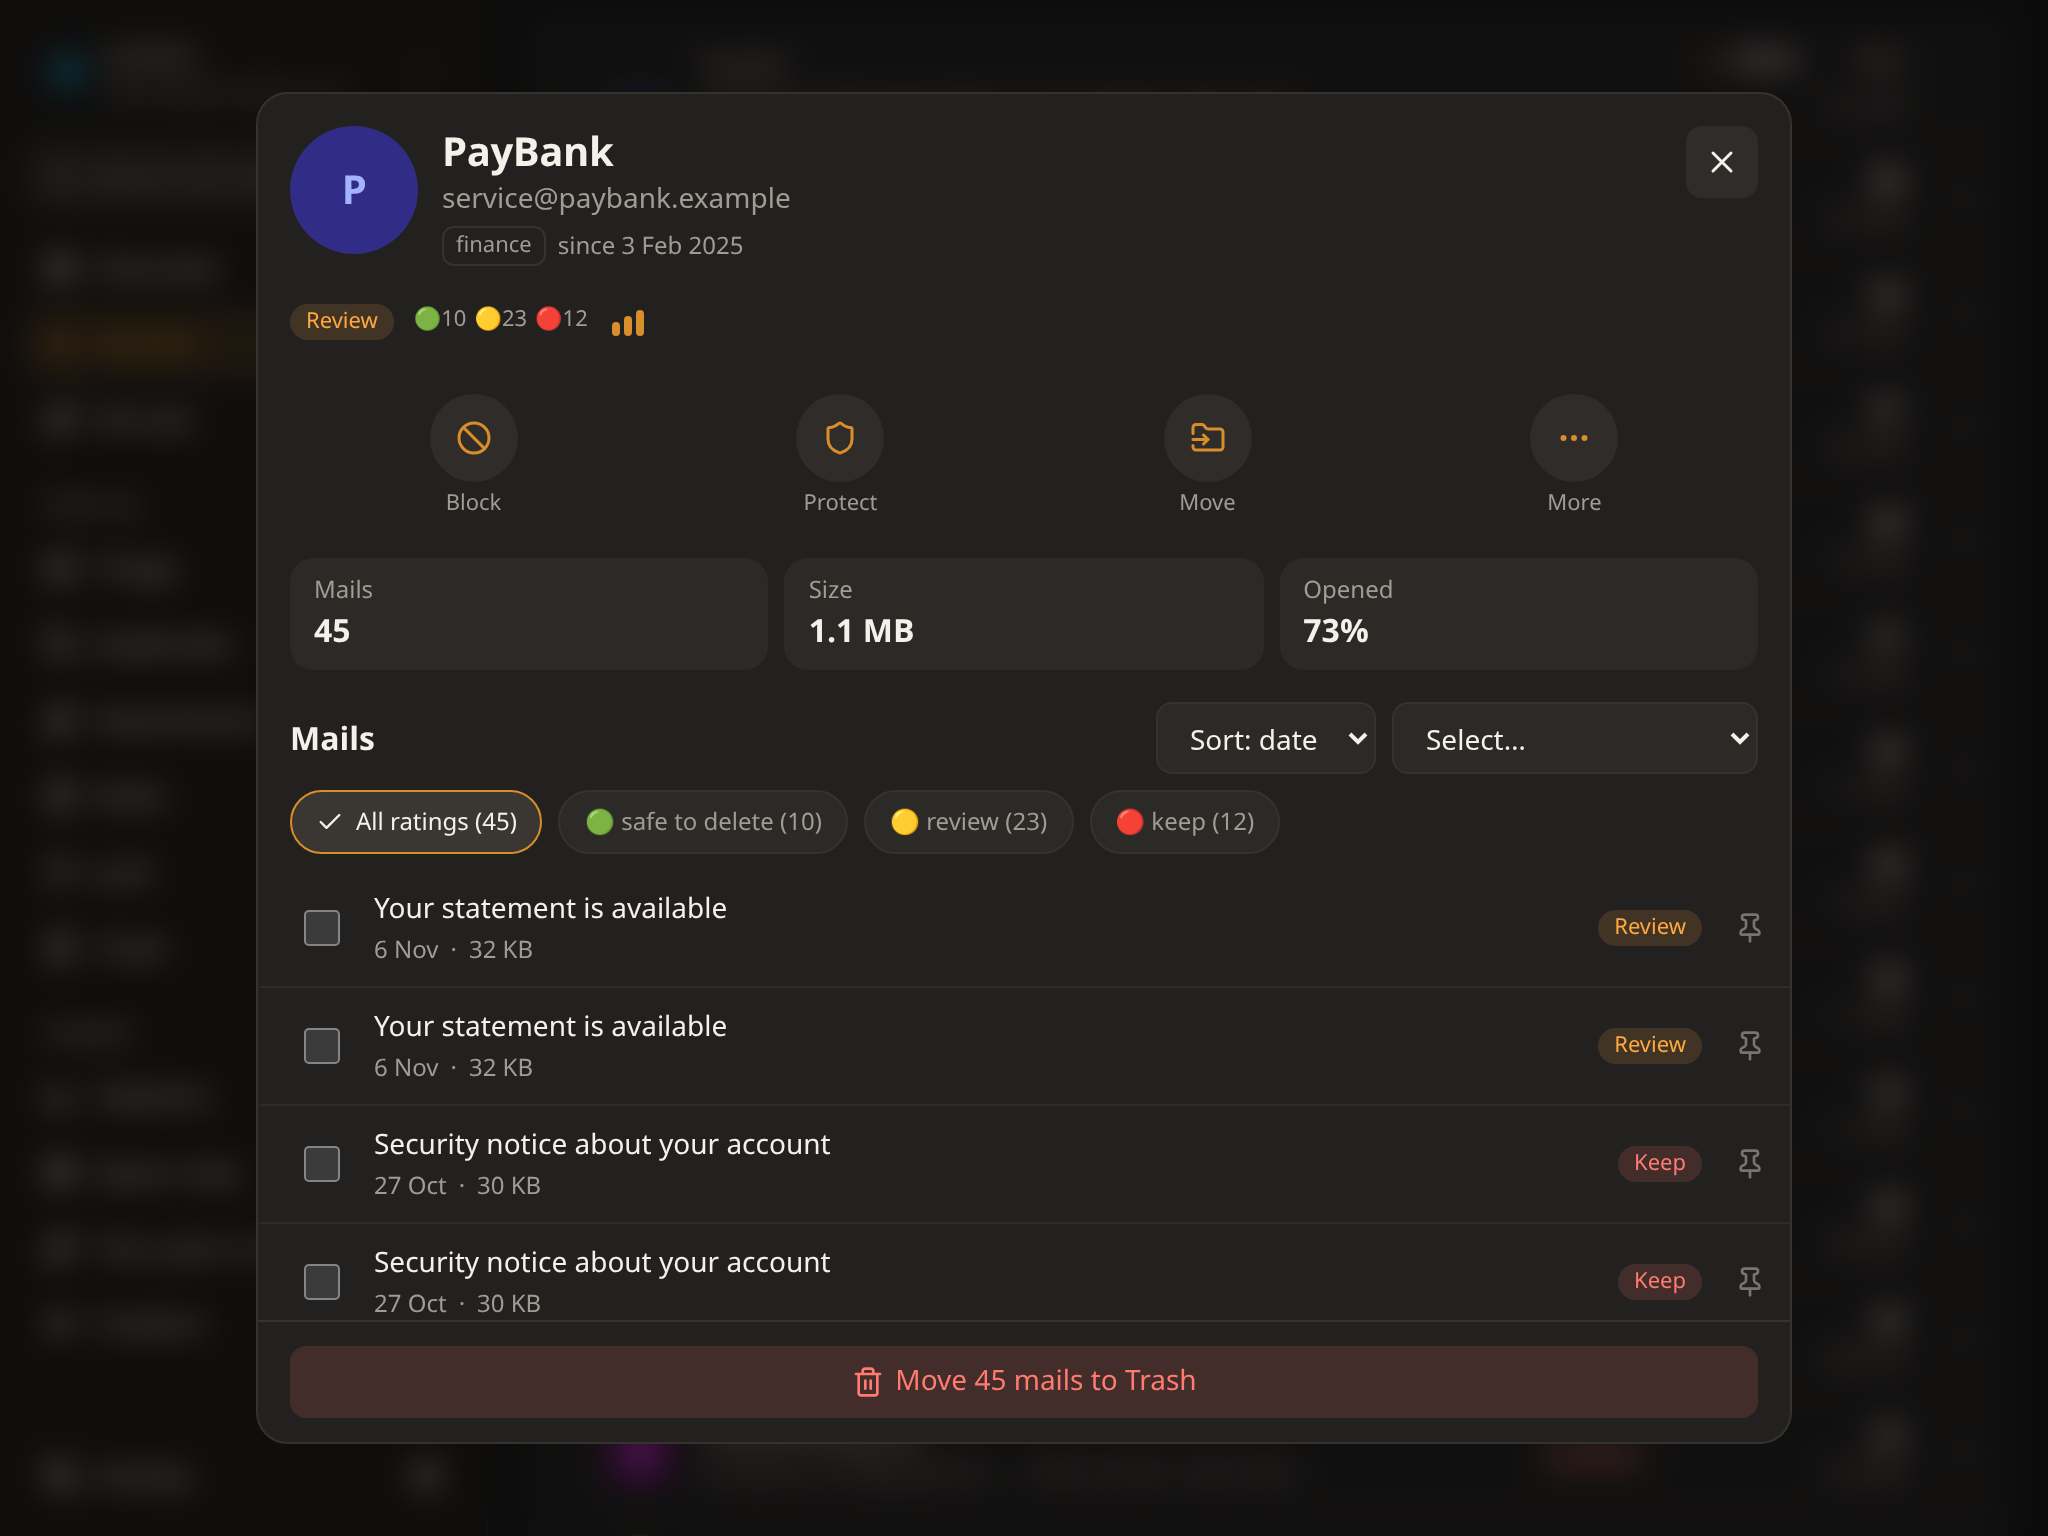
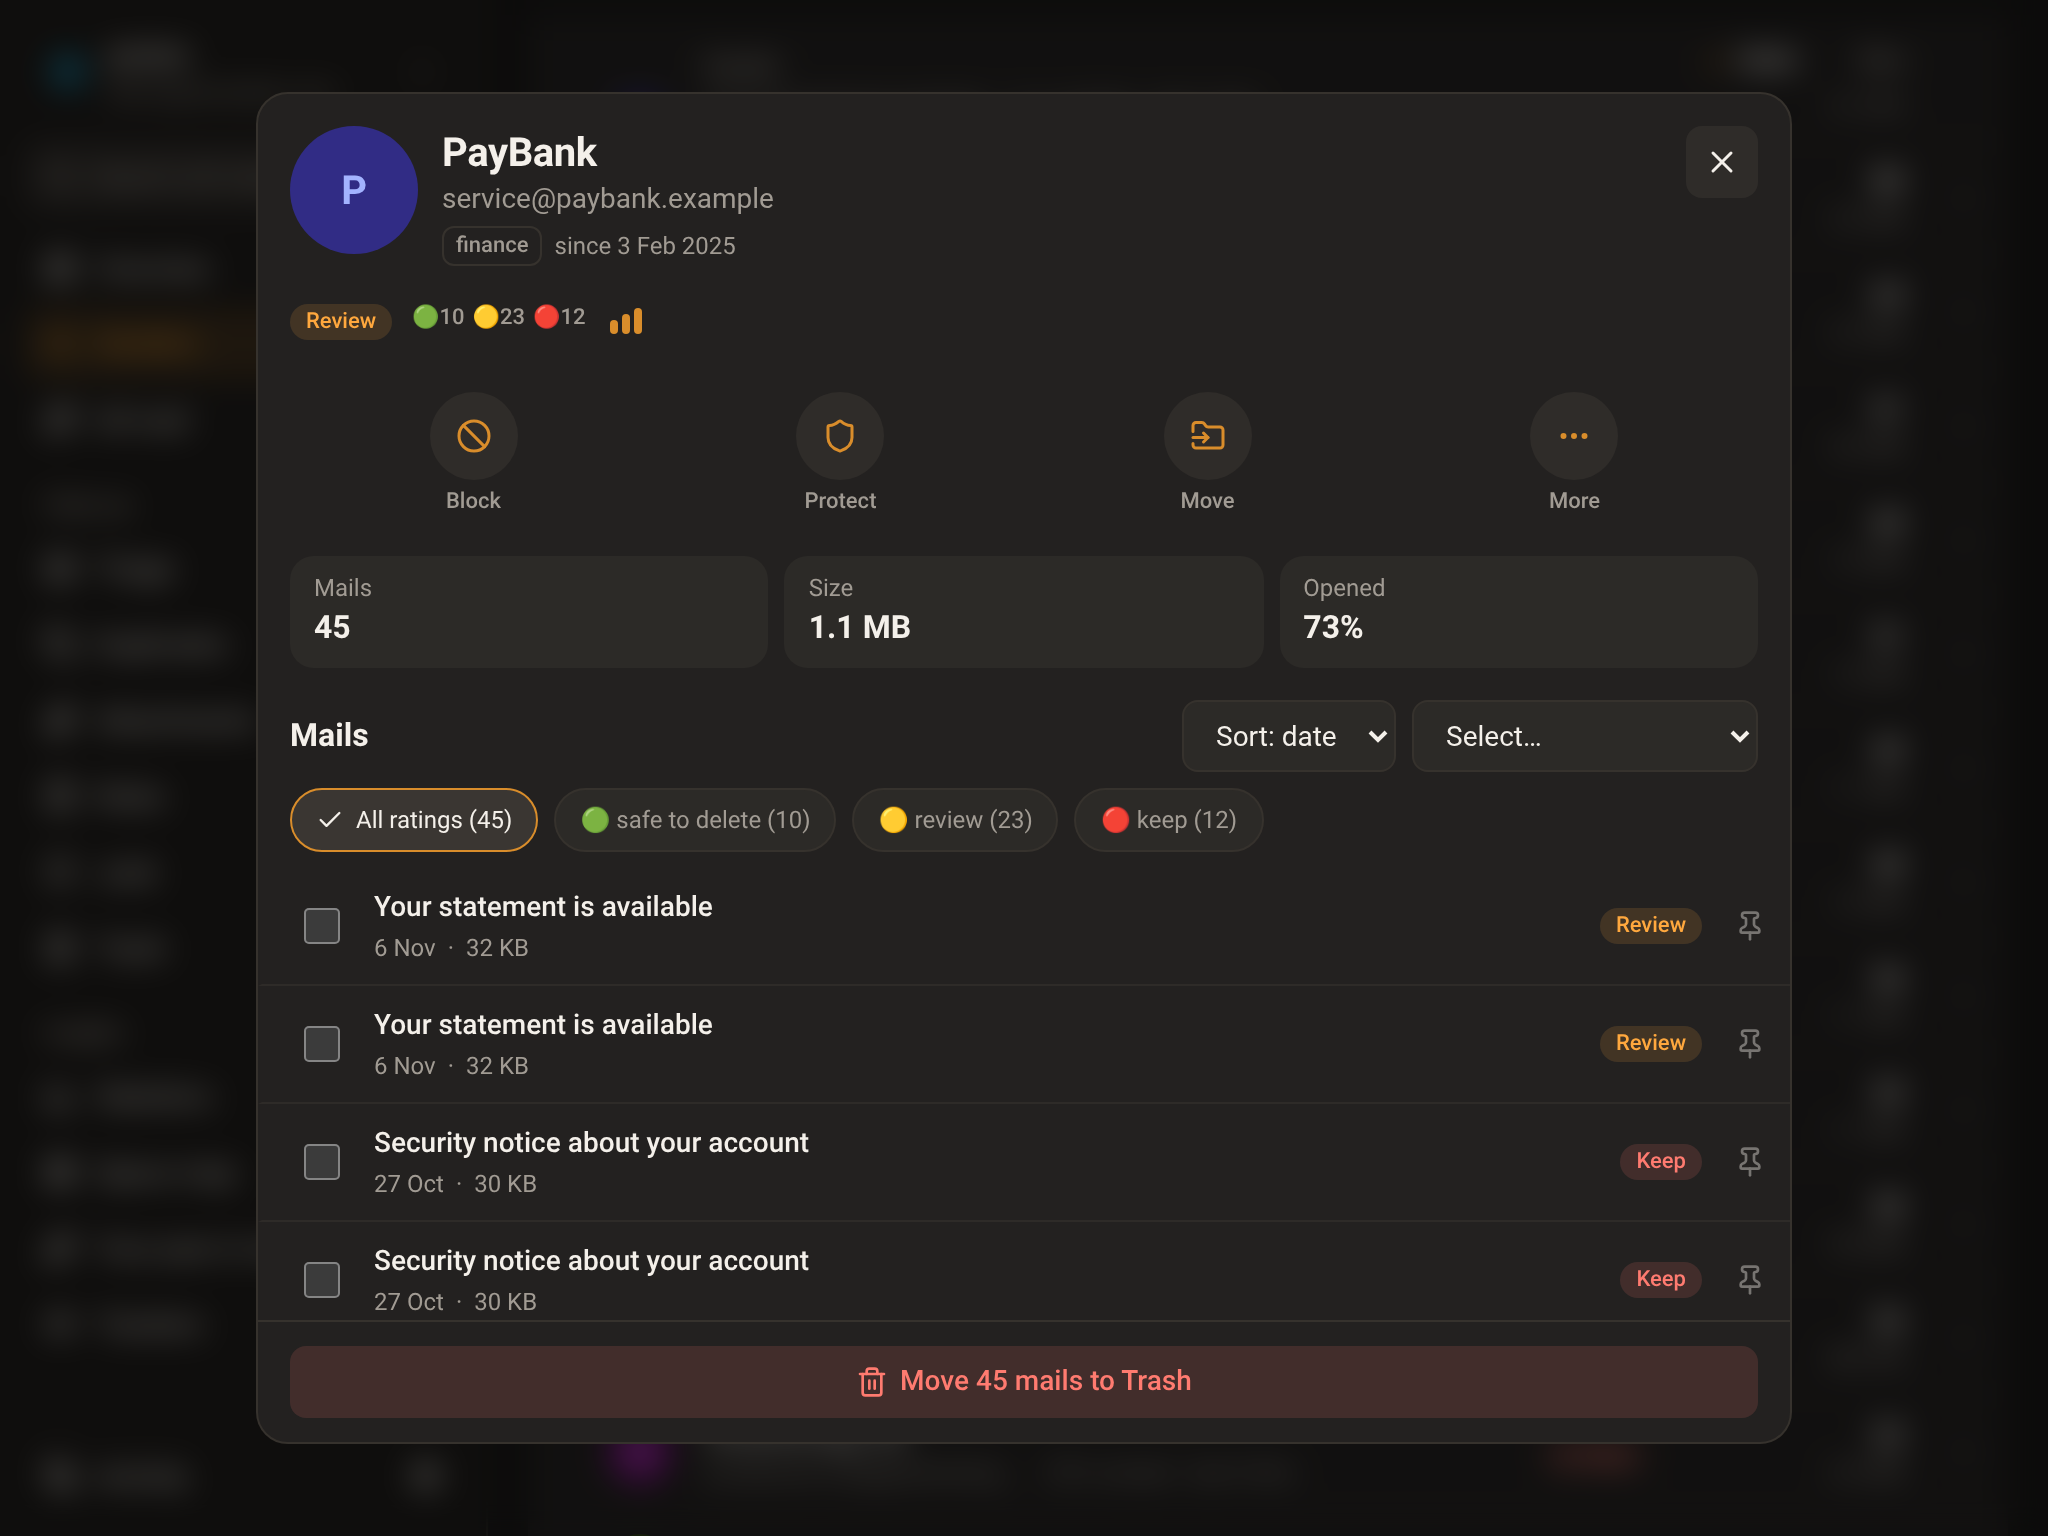
docs: regenerate screenshots with emoji and Roboto, centre split-pane shot, Unsubscribe wording

diff --git a/docs/features.md b/docs/features.md
@@ -38,10 +38,10 @@ the short version; [install.md](install.md) covers running it and
   reader (HTML mails rendered as plain text - no remote content, no tracking
   pixels), per-mail selection and deletion ("Trash this mail", or "Move N
   mails to Trash" for the whole group, the button at the bottom). The actions
-  for the sender as a whole - Unsubscribe, Block, Protect, Move, More - are a
-  row at the top. On screens 1280 px and wider the group opens in a **side
-  pane** next to the list, so you can keep scanning the list while you read;
-  below that it is a dialog.
+  for the sender as a whole - Unsubscribe (when the sender offers it), Block,
+  Protect, Move, More - are a row at the top. On screens 1280 px and wider the
+  group opens in a **side pane** next to the list, so you can keep scanning
+  the list while you read; below that it is a dialog.
 - **AI review (optional)** - coarse verdicts per group
   (delete-safe/review/keep) and a fine-grained mode that rates every mail
   *inside* a group, with selection by rating. Verdicts are cached (by group
